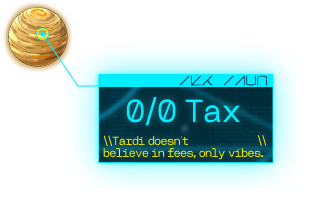
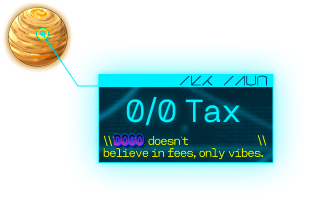
f

diff --git a/index.html b/index.html
@@ -1,5 +1,5 @@
 <!DOCTYPE html><html lang="en"><head>
-	<title>TARDI</title>
+	<title>DOGO</title>
 	<meta charset="UTF-8">
 	<meta name="format-detection" content="telephone=no">
 	<style>
@@ -27,7 +27,7 @@
 		<div class="menu-open-bg"></div>
 		<header class="header" data-lp="">
 			<div class="header__box">
-				<a href="../" class="header__logo"><img src="images/RdUvZIctvSfS.svg" alt="TARDI "></a>
+				
 				<div class="header__decor">////</div>
 				<div class="header__time"></div>
 				<div class="header__decor">////</div>
@@ -63,7 +63,7 @@
 									<span>|</span>
 								</li>
 								<li class="menu__item">
-									<a href="http://tardi.org/tardinators" class="menu__link">Tardinators</a>
+									<a href="http://tardi.org/tardinators" class="menu__link">DOGOnators</a>
 								</li>
 								<li class="menu__item menu__item--dec">
 									<span>|</span>
@@ -75,7 +75,7 @@
               <span>|</span>
             </li> -->
 								<li class="menu__item">
-									<a href="t-agents.html" class="menu__link">T-AGENTS</a>
+									<a href="D-agents.html" class="menu__link">D-AGENTS</a>
 								</li>
 							</ul>
 						</nav>
@@ -162,12 +162,13 @@
 											</div>
 										</h3>
 										<div class="item-hero__body-text">
-											SpaceX just launched 5,000 tardigrades into space so
-											astronauts can study how indestructible they are
+											Space Dogo isn’t just a memecoin... it’s a cosmic force.
+Forged in the heart of a supernova and powered by pure bark energy, Space Dogo is the toughest memecoin in the galaxy.
+While others moon, he orbits domination.
+Join the mission. Hold $DOGO. Conquer the stars.
 										</div>
 										<div class="item-hero__body-bottom">
-											<a href="https://www.businessinsider.nl/spacex-just-launched-5000-tardigrades-into-space-so-astronauts-can-study-how-indestructible-they-are/" target="_blank">
-												<span>> Read the original article</span>
+										
 												<svg xmlns="http://www.w3.org/2000/svg" width="16" height="17" viewBox="0 0 16 17" fill="none">
 													<g clip-path="url(#clip0_34_79)">
 														<path d="M2.63849 14.2372L13.0469 3.82885M13.0469 3.82885L13.0469 13.8445M13.0469 3.82885L3.03126 3.82885" stroke="#75FF86" stroke-width="1.5"></path>
@@ -232,12 +233,10 @@
 											</div>
 										</h3>
 										<div class="item-hero__body-text">
-											Rare video footage of a tardigrade threesome that lasted
-											30 minutes documents the wild sex lives of water bears
+											Rare video footage of a Space Dogo interstellar rendezvous lasting 30 minutes has scientists stunned — proving once again that even in zero gravity, the toughest dog in the galaxy knows how to make headlines.
 										</div>
 										<div class="item-hero__body-bottom">
-											<a href="https://www.businessinsider.nl/rare-video-footage-of-a-tardigrade-threesome-that-lasted-30-minutes-documents-the-wild-sex-lives-of-water-bears/" target="_blank">
-												<span>> Read the original article</span>
+							
 												<svg xmlns="http://www.w3.org/2000/svg" width="16" height="17" viewBox="0 0 16 17" fill="none">
 													<g clip-path="url(#clip0_34_79)">
 														<path d="M2.63849 14.2372L13.0469 3.82885M13.0469 3.82885L13.0469 13.8445M13.0469 3.82885L3.03126 3.82885" stroke="#75FF86" stroke-width="1.5"></path>
@@ -274,11 +273,10 @@
 											</div>
 										</h3>
 										<div class="item-hero__body-text">
-											WHY TARDIGRADES SPILLED ALL OVER THE MOON IN 2020
+											WHY SPACE DOGOS SPILLED ALL OVER THE MOON IN 2025
 										</div>
 										<div class="item-hero__body-bottom">
-											<a href="https://www.inverse.com/science/tardigrades-may-have-taken-over-the-moon" target="_blank">
-												<span>> Read the original article</span>
+									
 												<svg xmlns="http://www.w3.org/2000/svg" width="16" height="17" viewBox="0 0 16 17" fill="none">
 													<g clip-path="url(#clip0_34_79)">
 														<path d="M2.63849 14.2372L13.0469 3.82885M13.0469 3.82885L13.0469 13.8445M13.0469 3.82885L3.03126 3.82885" stroke="#75FF86" stroke-width="1.5"></path>
@@ -328,12 +326,10 @@
 												</div>
 											</h3>
 											<div class="item-hero__body-text">
-												NEW TARDIGRADE DISCOVERY REVEALS SECRETS OF RADIATION
-												RESISTANCE
+												NEW SPACE DOGO DISCOVERY REVEALS SECRETS OF MEME RADIATION RESISTANCE
 											</div>
 											<div class="item-hero__body-bottom">
-												<a href="https://www.vox.com/science-and-health/2019/8/6/20756844/tardigrade-moon-beresheet-arch-mission" target="_blank">
-													<span>> Read the original article</span>
+								
 													<svg xmlns="http://www.w3.org/2000/svg" width="16" height="17" viewBox="0 0 16 17" fill="none">
 														<g clip-path="url(#clip0_34_79)">
 															<path d="M2.63849 14.2372L13.0469 3.82885M13.0469 3.82885L13.0469 13.8445M13.0469 3.82885L3.03126 3.82885" stroke="#75FF86" stroke-width="1.5"></path>
@@ -396,14 +392,10 @@
 											</div>
 										</h3>
 										<div class="item-hero__body-text">
-											Anti-aging elixir could be hiding in 'indestructible'
-											tardigrades, say scientists who found microscopic
-											creature's proteins slow cell damage
+											Anti-aging elixir could be hiding in 'indestructible' Space Dogos, say scientists who discovered cosmic proteins that slow memecoin decay
 										</div>
 										<div class="item-hero__body-bottom">
-											<a href="https://www.dailymail.co.uk/sciencetech/article-13248877/scientists-tardigrade-protein-sl
-                        ows-aging-humans.html" target="_blank">
-												<span>> Read the original article</span>
+					
 												<svg xmlns="http://www.w3.org/2000/svg" width="16" height="17" viewBox="0 0 16 17" fill="none">
 													<g clip-path="url(#clip0_34_79)">
 														<path d="M2.63849 14.2372L13.0469 3.82885M13.0469 3.82885L13.0469 13.8445M13.0469 3.82885L3.03126 3.82885" stroke="#75FF86" stroke-width="1.5"></path>
@@ -456,13 +448,12 @@
 											</a>
 										</div>
 										<div class="item-musk__body-post-message">
-											/And even tinier ones for tardigrades
+											/And even tinier ones for SPACE DOGO
 										</div>
 									</div>
 								</div>
 								<div class="item-musk__body-bottom">
-									<a href="https://x.com/elonmusk/status/1112840482856480768" target="_blank">
-										<span>> See the original tweet</span>
+					
 										<svg xmlns="http://www.w3.org/2000/svg" width="16" height="17" viewBox="0 0 16 17" fill="none">
 											<g clip-path="url(#clip0_34_79)">
 												<path d="M2.63849 14.2372L13.0469 3.82885M13.0469 3.82885L13.0469 13.8445M13.0469 3.82885L3.03126 3.82885" stroke="#75FF86" stroke-width="1.5"></path>
@@ -488,7 +479,7 @@
 								</div>
 								<div class="item-musk__body">
 									<h3 class="item-musk__body-header">
-										<div><span>>TARDI's tiny Cybertruck</span></div>
+										<div><span>>DOGO's tiny Cybertruck</span></div>
 										<div>
 											<span>. . . //</span>
 										</div>
@@ -519,14 +510,14 @@
 									<div class="item-hero__body-header-manifesto">
 										<span>-04 ></span>
 										<h3 class="item-hero__body-title">
-											The Eternal Code: Tardi's Guide to Thriving, Surviving,
+											The Eternal Code: DOGO's Guide to Thriving, Surviving,
 											and Mooning
 										</h3>
 										<span>. . . . . . . . $</span>
 									</div>
 									<div class="item-hero__body-text-manifesto">
 										<p>
-											<span>Welcome to TARDI</span> – SUI's toughest token.
+											<span>Welcome to DOGO</span> – SOL's toughest token.
 											(Scientifically Proven).
 										</p>
 										<ul>
@@ -597,7 +588,7 @@
 						<img loading="lazy" src="images/UYeLTmQNtSNL.svg" alt="Decor">
 					</div>
 					<div class="tokenomics__label tokenomics__label--3">
-						<img loading="lazy" src="images/tH0h3fYx2JPo.svg" alt="Decor">
+					
 					</div>
 				</div>
 				<div class="tokenomics__container" data-prlx-parent="">
@@ -611,7 +602,7 @@
 						<div class="tokenomics__ca">
 							<img src="images/iKTf7HWmmvmV.png" alt="CA">
 							<div>
-								<span>0x4cf08813756dfa7519cb480a1a1a3472b5b4ec067592a8bee0f826808d218158::tardi::TARDI</span>
+								<span>XXXXXXXXXXXXXXXXXXXXXXXXXXXXXXXXXXXXXXXXXXXXXX</span>
 								<button class="copy-ca-btn">
 									<svg xmlns="http://www.w3.org/2000/svg" width="17" height="17" viewBox="0 0 17 17" fill="none">
 										<g clip-path="url(#clip0_118_5926)">
@@ -650,7 +641,7 @@
 						<img loading="lazy" src="images/IAQEUdko9ZmU.svg" alt="Decor">
 					</div>
 					<div class="how__label how__label--2">
-						<img loading="lazy" src="images/Ru8caCa235uy.svg" alt="Decor">
+					
 					</div>
 				</div>
 				<div class="how__rocket">
@@ -696,11 +687,11 @@
 										<span>. . . . . . . .$</span>
 									</div>
 									<div class="how__item-body-label">
-										Wallet Setup & Acquire $SUI
+										Wallet Setup & Get $SOL
 									</div>
 									<div class="how__item-body-text">
-										>Install a Sui-compatible wallet <br>
-										Get $SUI: Purchase from exchanges or transfer.
+										>Install a Solana-compatible wallet like Phantom <br>
+										Buy $SOL from an exchange or bridge it into your wallet.
 									</div>
 									<div class="how__item-body-bottom">
 										<span>//_ 10 11 12 13_</span>
@@ -721,12 +712,11 @@
 										<span>. . . . . . . .$</span>
 									</div>
 									<div class="how__item-body-label">
-										Swap $SUI for $TARDI on Cetus
+										Swap $SOL for $DOGO on Jupiter
 									</div>
 									<div class="how__item-body-text">
-										>Go to Cetus DEX <br>
-										Connect your wallet, find the $SUI-STARDI trading pair,
-										execute the swap, and confirm.
+										>Head over to Jupiter Aggregator (jup.ag) <br>
+										Connect your wallet, search for the $DOGO token, swap, and confirm the transaction.
 									</div>
 									<div class="how__item-body-bottom">
 										<span>//_ 10 11 12 13_</span>
@@ -747,7 +737,7 @@
 										<span>. . . . . . . .$</span>
 									</div>
 									<div class="how__item-body-text">
-										Relax and HODL like Tardi.
+										Kick back while the toughest dog in the galaxy takes your bags to orbit. 
 									</div>
 									<div class="how__item-body-bottom">
 										<span>//_ 10 11 12 13_</span>
@@ -823,7 +813,7 @@
 										</a>
 										<a href="mailto:tardi@tardi.org" target="_blank" class="main-footer__email">tardi@tardi.org</a>
 										<div class="main-footer__social">
-											<a href="https://x.com/Tardionmoon" target="_blank" class="main-footer__social-item">
+											<a href="https://x.com/DOGOonmoon" target="_blank" class="main-footer__social-item">
 												<svg xmlns="http://www.w3.org/2000/svg" width="33" height="32" viewBox="0 0 33 32" fill="none">
 													<g clip-path="url(#clip0_40_86)">
 														<path fill-rule="evenodd" clip-rule="evenodd" d="M28.9146 28.5L18.918 13.9295L18.9351 13.9432L27.9484 3.5H24.9364L17.5939 12L11.763 3.5L3.86352 3.5L13.1963 17.1034L13.1951 17.1023L3.35205 28.5H6.36408L14.5273 19.0432L21.0151 28.5H28.9146ZM10.5696 5.77272L24.5954 26.2273H22.2085L8.17133 5.77272H10.5696Z" fill="#FFF200"></path>
@@ -835,7 +825,7 @@
 													</defs>
 												</svg>
 											</a>
-											<a href="http://t.me/tardionmoon" target="_blank" class="main-footer__social-item">
+											<a href="http://t.me/DOGOonmoon" target="_blank" class="main-footer__social-item">
 												<svg xmlns="http://www.w3.org/2000/svg" width="33" height="32" viewBox="0 0 33 32" fill="none">
 													<g clip-path="url(#clip0_40_93)">
 														<path fill-rule="evenodd" clip-rule="evenodd" d="M26.5035 5.90662C26.833 5.76794 27.1936 5.72011 27.5479 5.76811C27.9021 5.81611 28.237 5.95818 28.5177 6.17953C28.7984 6.40089 29.0147 6.69344 29.144 7.02673C29.2732 7.36002 29.3108 7.72187 29.2528 8.07462L26.2288 26.4173C25.9355 28.1866 23.9941 29.2013 22.3715 28.32C21.0141 27.5826 18.9981 26.4466 17.1848 25.2613C16.2781 24.668 13.5008 22.768 13.8421 21.416C14.1355 20.26 18.8021 15.916 21.4688 13.3333C22.5155 12.3186 22.0381 11.7333 20.8021 12.6666C17.7328 14.984 12.8048 18.508 11.1755 19.5C9.73814 20.3746 8.98881 20.524 8.09281 20.3746C6.45814 20.1026 4.94214 19.6813 3.70481 19.168C2.03281 18.4746 2.11414 16.176 3.70347 15.5066L26.5035 5.90662Z" fill="#FFF200"></path>
@@ -912,15 +902,15 @@
 						<h3>Core Principles</h3>
 						<ul>
 							<li>
-								<span>Eternal Resilience:</span> Tardi’s survived every cataclysm
+								<span>Eternal Resilience:</span> DOGO’s survived every cataclysm
 								since the dawn of time.
 							</li>
 							<li>
-								<span>Maximum Chill:</span> While others panic, Tardi mixes
+								<span>Maximum Chill:</span> While others panic, DOGO mixes
 								cocktails, with his 8-hands.
 							</li>
 							<li>
-								<span> Micro-Chad Energy:</span> Crypto is his home. Tardi was
+								<span> Micro-Chad Energy:</span> Crypto is his home. DOGO was
 								built to thrive amidst volatility.
 							</li>
 						</ul>
@@ -940,23 +930,23 @@
 							</li>
 							<li>
 								<span>Indestructible Innovation:</span> Infinitely scalable
-								infrastructure. Max vibin’- Tardi style.
+								infrastructure. Max vibin’- DOGO style.
 							</li>
 						</ul>
 						<h3>Join The Indestructible</h3>
 						<p>
-							Welcome to TARDI, where "diamond hands" is just the beginning, and
+							Welcome to DOGO, where "diamond hands" is just the beginning, and
 							becoming SUI's #1 meme is just our way of joining humanity's latest
 							adventure.
 						</p>
 						<p>
 							When it comes to the past: Trust me, bro – we we’re there. <br>
-							When it comes to the future: Join TARDI on the moon.
+							When it comes to the future: Join DOGO on the moon.
 						</p>
 					</div>
 					<div class="popup__body-buttons">
-						<a href="https://x.com/Tardionmoon" target="_blank" class="popup__body-button">Follow us on X</a>
-						<a href="https://t.me/tardionmoon" target="_blank" class="popup__body-button">Join Our Telegram</a>
+						<a href="https://x.com/DOGOonmoon" target="_blank" class="popup__body-button">Follow us on X</a>
+						<a href="https://t.me/DOGOonmoon" target="_blank" class="popup__body-button">Join Our Telegram</a>
 					</div>
 				</div>
 			</div>
